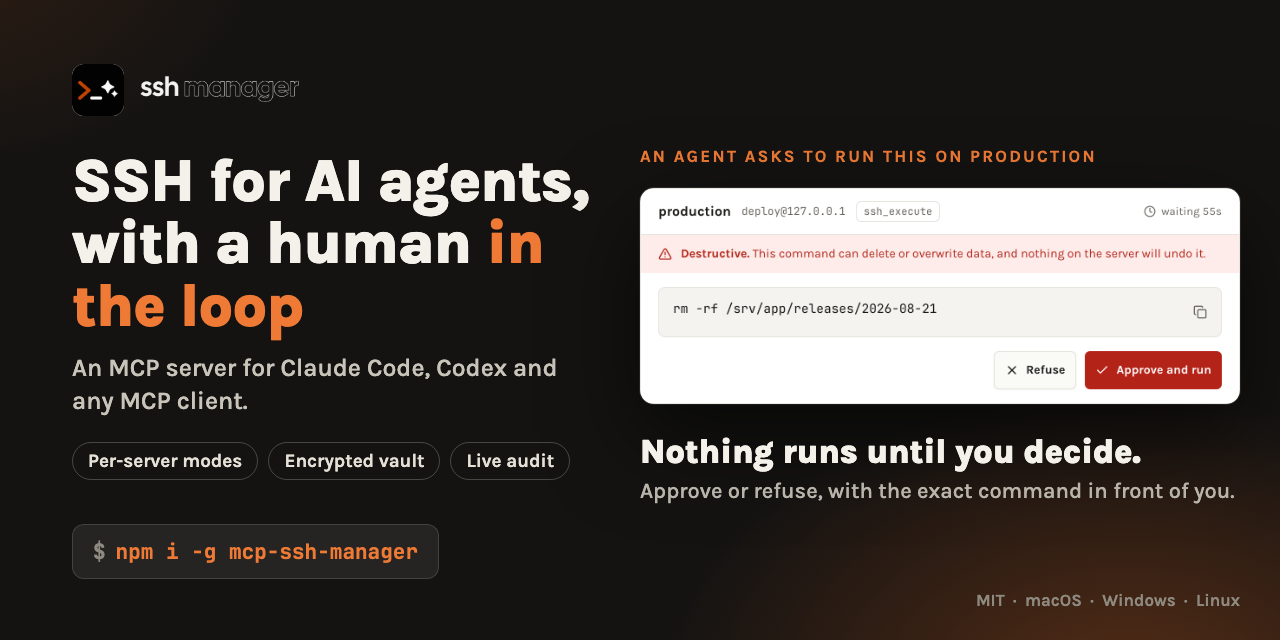
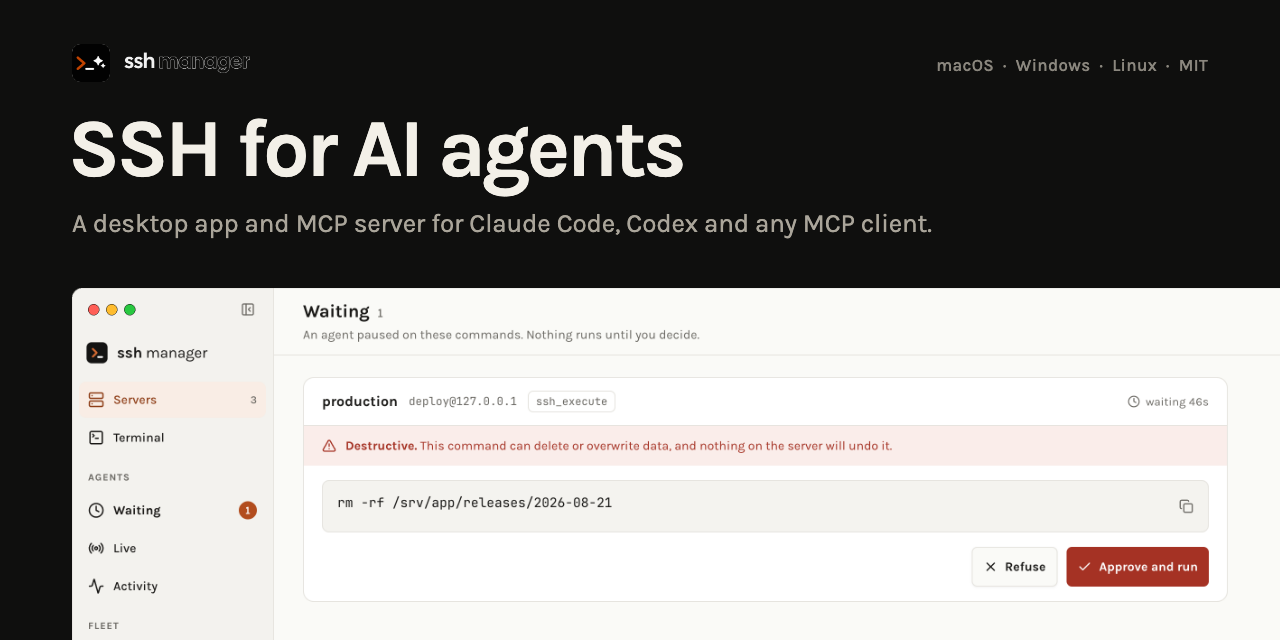
Social preview: lead with the application
The 4.0.1 image was crowded (headline, tagline, three pills, an install
command, a card, a second headline) over a glowing background, and showed a
cropped card rather than the product. It is now the product: the title "SSH for
AI agents", one plain line naming what it is and who it works with, and the real
application window (the README's own capture of the waiting screen) cropped to
the window and left to run off the right and bottom edges, on a flat dark
background. No gradient, no pills, no command line.

The window comes straight from docs/images/v4-waiting-app.png instead of a
separate card capture, so the image follows the interface when the screenshot
rig is re-run, and brand/approval-card.png is removed along with its
.npmignore line. Rendered by npm run brand:social, as before.

diff --git a/brand/social-preview.html b/brand/social-preview.html
@@ -1,43 +1,32 @@
 <!doctype html>
 <meta charset="utf-8">
 <title>MCP SSH Manager — social preview</title>
-<!-- The GitHub social preview (1280x640). Render with `npm run brand:social`; the fonts come
-     from the built interface (`npm run build:ui`), the card is a capture of the real approval screen. -->
+<!-- The GitHub social preview (1280x640). Render with `npm run brand:social`; the font comes
+     from the built interface (`npm run build:ui`) and the window is the README's own capture of
+     the real application (docs/images/v4-waiting-app.png, made by the screenshot rig), cropped
+     to the window and left to run off the right and bottom edges. -->
 <style>
   @font-face { font-family: Karla; src: url("../dist/ui/assets/Karla-Variable.woff2") format("woff2"); font-weight: 200 800; }
-  @font-face { font-family: JB; src: url("../dist/ui/assets/JetBrainsMono-Bold.woff2") format("woff2"); font-weight: 700; }
   * { box-sizing: border-box; margin: 0; }
   html, body { width: 1280px; height: 640px; }
-  body {
-    position: relative; overflow: hidden; font-family: Karla, system-ui, sans-serif; color: #f4f1ea;
-    background:
-      radial-gradient(760px 480px at 88% 108%, rgba(232,103,31,.30), transparent 62%),
-      radial-gradient(520px 360px at -4% -8%, rgba(232,103,31,.12), transparent 62%),
-      #141312;
-  }
-  .brand { position: absolute; left: 72px; top: 64px; display: flex; align-items: center; gap: 16px; }
-  .brand img.icon { width: 52px; height: 52px; border-radius: 12px; }
-  .brand img.word { height: 34px; }
-  h1 { position: absolute; left: 72px; top: 150px; width: 540px; font-size: 60px; line-height: 1.04; font-weight: 800; letter-spacing: -.02em; }
-  h1 em { font-style: normal; color: #ee7a35; }
-  .sub { position: absolute; left: 72px; top: 352px; width: 520px; font-size: 25px; line-height: 1.3; font-weight: 500; color: #c9c4ba; }
-  .chips { position: absolute; left: 72px; top: 442px; display: flex; gap: 10px; }
-  .chips span { font-size: 19px; font-weight: 600; padding: 7px 15px; border: 1px solid rgba(255,255,255,.22); border-radius: 999px; color: #e6e1d6; }
-  .cmd { position: absolute; left: 72px; top: 524px; font-family: JB, monospace; font-weight: 700; font-size: 21px; color: #ee7a35; background: rgba(255,255,255,.07); border: 1px solid rgba(255,255,255,.14); border-radius: 12px; padding: 13px 20px; }
-  .cmd b { color: #8f8a80; font-weight: 700; margin-right: 10px; }
-  .ask { position: absolute; left: 640px; top: 146px; width: 600px; font-size: 17px; font-weight: 700; letter-spacing: .13em; text-transform: uppercase; color: #ee7a35; }
-  .card { position: absolute; left: 640px; top: 188px; width: 600px; border-radius: 14px; overflow: hidden; box-shadow: 0 34px 90px rgba(0,0,0,.6), 0 0 0 1px rgba(255,255,255,.12); }
-  .card img { display: block; width: 600px; }
-  .decide { position: absolute; left: 640px; top: 432px; width: 600px; font-size: 34px; font-weight: 800; letter-spacing: -.01em; color: #f4f1ea; }
-  .decide span { color: #b9b4aa; font-weight: 500; font-size: 22px; display: block; margin-top: 6px; letter-spacing: 0; }
-  .foot { position: absolute; right: 40px; bottom: 30px; font-size: 17px; font-weight: 600; color: #8f8a80; }
+  body { position: relative; overflow: hidden; background: #0f0f0e; color: #f3f0e8; font-family: Karla, system-ui, sans-serif; }
+
+  .brand { position: absolute; left: 72px; top: 44px; display: flex; align-items: center; gap: 14px; }
+  .brand .icon { width: 38px; height: 38px; border-radius: 9px; }
+  .brand .word { height: 27px; }
+  .meta { position: absolute; right: 72px; top: 55px; font-size: 17px; font-weight: 500; letter-spacing: .02em; color: #8b877e; }
+
+  h1 { position: absolute; left: 68px; top: 108px; font-size: 82px; line-height: 1; font-weight: 650; letter-spacing: -.04em; }
+  .sub { position: absolute; left: 72px; top: 208px; font-size: 26px; line-height: 1.2; font-weight: 400; letter-spacing: -.005em; color: #aaa59a; }
+
+  /* The screenshot is 3056x1936 with the window at 88,88 and 2880x1760 inside it
+     (a 1440x880 viewport at 2x, plus the shadow the framing script draws).
+     --k maps those pixels to the width the window is shown at. */
+  .app { --k: calc(1300 / 2880); position: absolute; left: 72px; top: 288px; width: 1300px; height: 700px; overflow: hidden; }
+  .app img { position: absolute; display: block; width: calc(3056px * var(--k)); left: calc(-88px * var(--k)); top: calc(-88px * var(--k)); }
 </style>
 <div class="brand"><img class="icon" src="../docs/images/icon.png" alt=""><img class="word" src="../docs/images/wordmark-dark.png" alt="ssh manager"></div>
-<h1>SSH for AI agents, with a human <em>in the loop</em></h1>
-<p class="sub">An MCP server for Claude Code, Codex and any MCP client.</p>
-<div class="chips"><span>Per-server modes</span><span>Encrypted vault</span><span>Live audit</span></div>
-<div class="cmd"><b>$</b>npm i -g mcp-ssh-manager</div>
-<div class="ask">An agent asks to run this on production</div>
-<div class="card"><img src="approval-card.png" alt=""></div>
-<div class="decide">Nothing runs until you decide.<span>Approve or refuse, with the exact command in front of you.</span></div>
-<div class="foot">MIT &nbsp;·&nbsp; macOS &nbsp;·&nbsp; Windows &nbsp;·&nbsp; Linux</div>
+<div class="meta">macOS &nbsp;·&nbsp; Windows &nbsp;·&nbsp; Linux &nbsp;·&nbsp; MIT</div>
+<h1>SSH for AI agents</h1>
+<p class="sub">A desktop app and MCP server for Claude Code, Codex and any MCP client.</p>
+<div class="app"><img src="../docs/images/v4-waiting-app.png" alt=""></div>

diff --git a/brand/README.md b/brand/README.md
@@ -5,7 +5,7 @@
 | `wordmark.svg` | The logo: **ssh** solid, **manager** outlined. Supplied, not derived. |
 | `icon.svg` | The app icon — the mark on its tile. Everything else is generated from this. |
 | `mark.svg` | The mark alone, no tile, `currentColor` for the white parts. |
-| `social-preview.html` | The GitHub social preview (1280×640), rendered to `docs/images/social-preview.png` and `@2x` by `npm run brand:social`. The card in it, `approval-card.png`, is a capture of the real approval screen. |
+| `social-preview.html` | The GitHub social preview (1280×640), rendered to `docs/images/social-preview.png` and `@2x` by `npm run brand:social`. The window in it is the README's own capture of the real application (`docs/images/v4-waiting-app.png`, made by the screenshot rig), so the image follows the interface when the rig is re-run. |
 
 ## The icon
 
